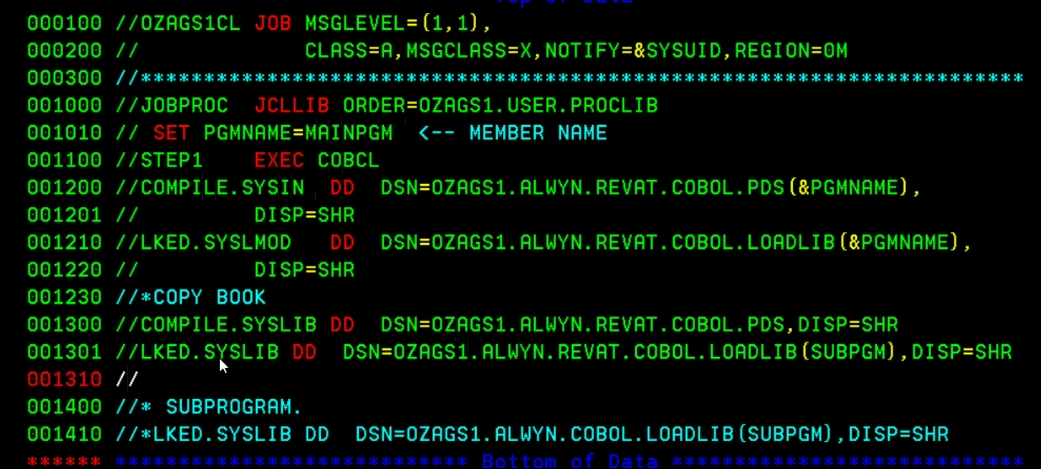
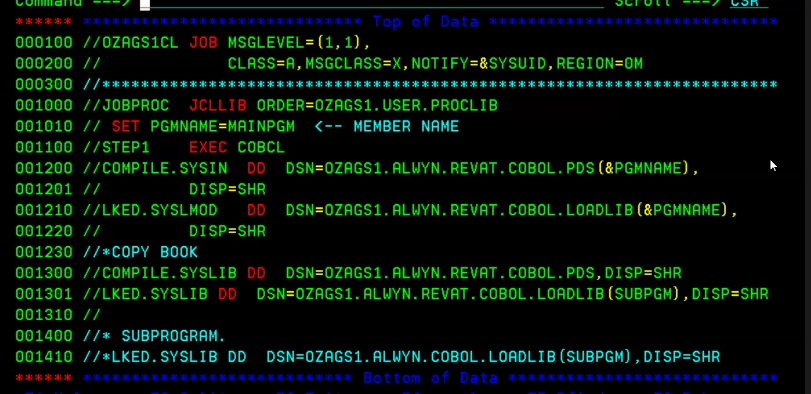
Pushing image fix

diff --git a/CLASS-CODE/COBOL.MD b/CLASS-CODE/COBOL.MD
@@ -87,8 +87,6 @@
 ##### COMPILE SUBPROGRAM
 - ![COMP SUB](./imgs/COBOL/SUBCOMPILE.png)
 ##### COMPILE MAINPROGRAM
-- *Note: Line 012 should be uncommented:*
-- Also remove null line 10
-- ![COMP MAIN](./imgs/COBOL/COMPJCL.png)
+- ![COMP MAIN](./imgs/COBOL/MAINCOMPILE.png)
 ##### BY REFERENCE VS BY CONTENT
 - ![REFCONTENT](./imgs//COBOL/REFERENCECONTENT.png)
